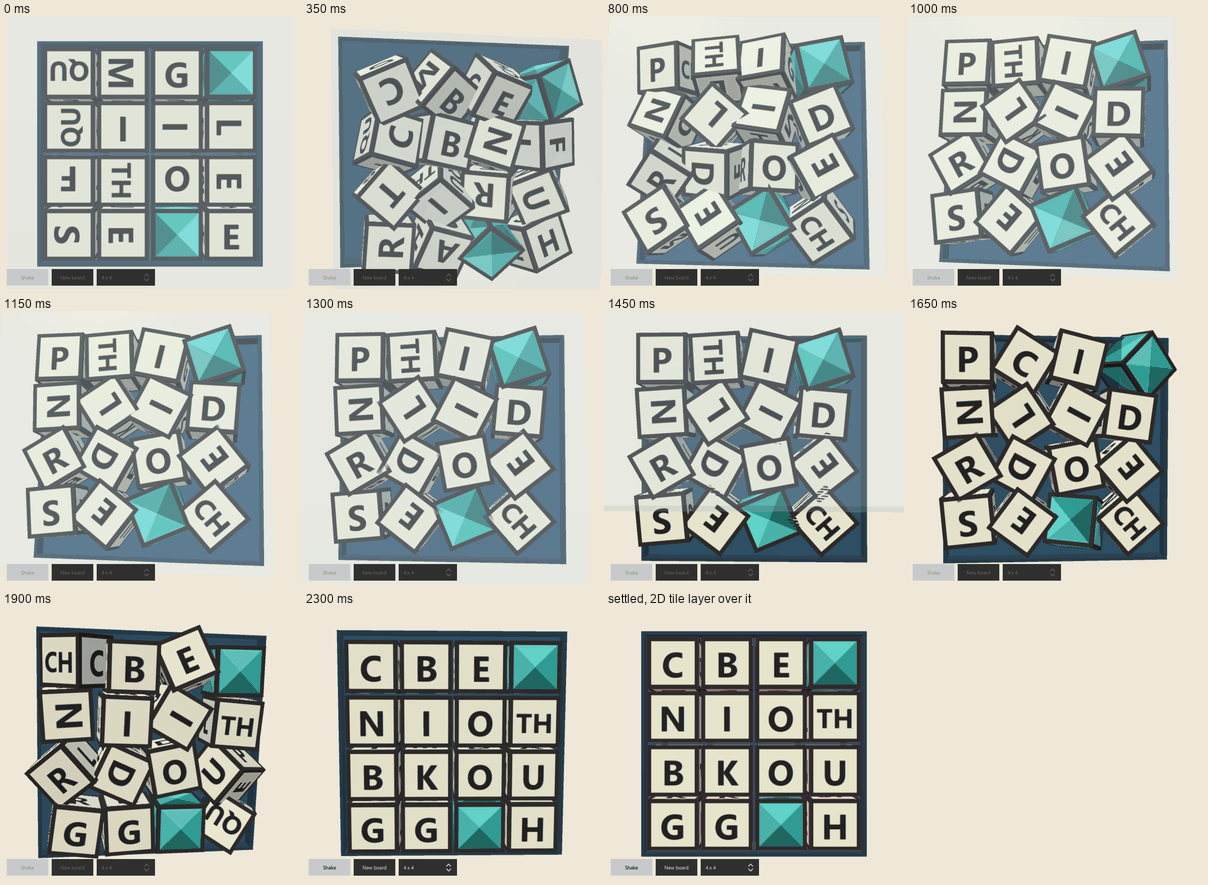
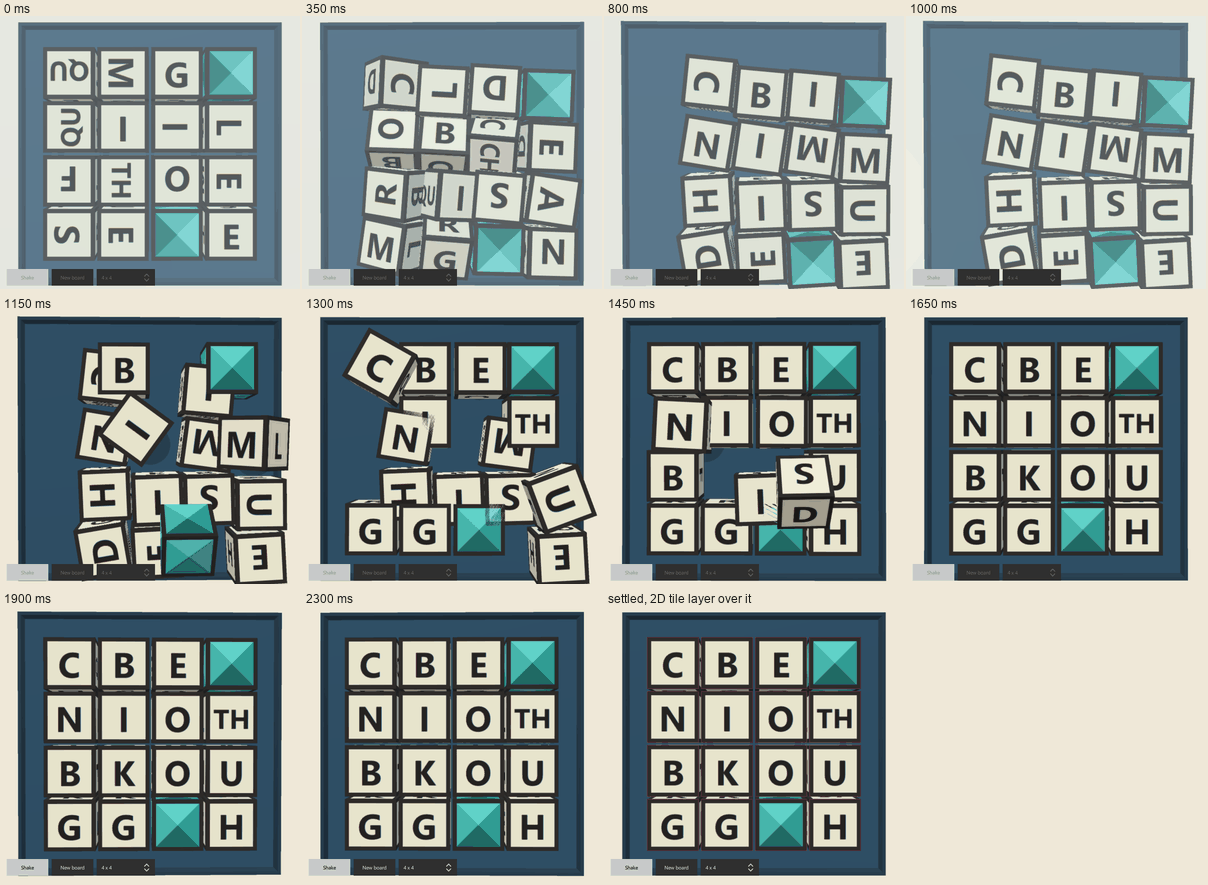
Record the cost of the dice's faces against the newest shake prototype
The measurement is repeated against the branch's tip with the dice in a box
with room (nine processes, a quiet machine, checked as it ran): a frame of a
play costs the render thread about a tenth more, creating the view is
unchanged, and the frame in which a new board is drawn costs two to three and
a half times what it did. New replay checksums, the faces' table and the
filmstrips come from the same tree.

diff --git a/docs/design/shake-prototype.md b/docs/design/shake-prototype.md
@@ -180,18 +180,18 @@ with seed 100:
 
 | Board | Tiles that are their die's face up | Different letters on a die (mean) | Land face up, upright | Faces uppermost in a play (mean, most) |
 | --- | --- | --- | --- | --- |
-| Library dice 3x3 | 9 of 9 | 6.00 | 9 of 9 | 3.89, 5 |
-| Library dice 4x4 | 16 of 16 | 6.00 | 16 of 16 | 3.56, 4 |
-| Library dice 5x5 | 25 of 25 | 6.00 | 25 of 25 | 3.60, 5 |
-| Library dice 6x6 | 36 of 36 | 6.00 | 36 of 36 | 3.69, 6 |
-| Stand-in 3x3, 4x4, 5x5, 6x6 | all | 5.4 to 5.7 (a dead die has one) | all | 3.5 to 3.7, 5 |
+| Library dice 3x3 | 9 of 9 | 6.00 | 9 of 9 | 5.00, 6 |
+| Library dice 4x4 | 16 of 16 | 6.00 | 16 of 16 | 4.50, 6 |
+| Library dice 5x5 | 25 of 25 | 6.00 | 25 of 25 | 4.60, 6 |
+| Library dice 6x6 | 36 of 36 | 6.00 | 36 of 36 | 4.97, 6 |
+| Stand-in 3x3, 4x4, 5x5, 6x6 | all | 5.4 to 5.7 (a dead die has one) | all | 4.6 to 4.9, 6 |
 
 Under reduced motion nothing tumbles (one face, 1.00) and every die lands as
 asked. The staged script shows a die about two faces (the one it lay on and the
 one it lands on, and what the turn passes between). The same checks, on six
-boards (3x3 and 4x4, three seeds each), are the ctest case `the shake script lands each die on the face the roll
-says and tumbles the others`; it fails if the up face is ignored, and if the
-tumble is switched off.
+boards (3x3 and 4x4, three seeds each), are the ctest case "the shake script
+lands each die on the face the roll says and tumbles the others"; it fails if
+the up face is ignored, and if the tumble is switched off.
 
 **What it does not do.** The opposite faces of a die are the cube's arrangement,
 not the die's (the library says which six letters a die has and nothing about
@@ -313,16 +313,16 @@ different seed a different one, and reduced motion its own:
 
 | Script, board (seed 7) | Seed 100, then again | Seed 101 | Reduced, seed 100, then again |
 | --- | --- | --- | --- |
-| Weighted, library dice 3x3 | `5fd8c3e1`, `5fd8c3e1` | `12fd47c0` | `c710afd9`, `c710afd9` |
-| Weighted, library dice 4x4 | `58701394`, `58701394` | `4e36e488` | `b226c069`, `b226c069` |
-| Weighted, library dice 5x5 | `3a8cdaca`, `3a8cdaca` | `5a2b5351` | `fe1247e5`, `fe1247e5` |
-| Weighted, library dice 6x6 | `c893506e`, `c893506e` | `b340b41a` | `709173dd`, `709173dd` |
-| Weighted, stand-in 3x3 | `1673e020`, `1673e020` | `ab28dc78` | `d92b509d`, `d92b509d` |
-| Weighted, stand-in 4x4 | `599afebd`, `599afebd` | `aae31721` | `683142cd`, `683142cd` |
-| Staged, library dice 3x3 | `f12b979f`, `f12b979f` | `5e950637` | `c710afd9`, `c710afd9` |
-| Staged, library dice 4x4 | `181612b1`, `181612b1` | `804b374c` | `b226c069`, `b226c069` |
-| Staged, stand-in 3x3 | `c6d9fb7b`, `c6d9fb7b` | `f633b21e` | `d92b509d`, `d92b509d` |
-| Staged, stand-in 4x4 | `add084cb`, `add084cb` | `279c1970` | `683142cd`, `683142cd` |
+| Weighted, library dice 3x3 | `38cde292`, `38cde292` | `efd90ab4` | `c710afd9`, `c710afd9` |
+| Weighted, library dice 4x4 | `d3fba177`, `d3fba177` | `f015d079` | `b226c069`, `b226c069` |
+| Weighted, library dice 5x5 | `987c1268`, `987c1268` | `4dd96e54` | `fe1247e5`, `fe1247e5` |
+| Weighted, library dice 6x6 | `b11deba2`, `b11deba2` | `a74de28b` | `709173dd`, `709173dd` |
+| Weighted, stand-in 3x3 | `8aea8`, `8aea8` | `b5fd164b` | `d92b509d`, `d92b509d` |
+| Weighted, stand-in 4x4 | `2af519a0`, `2af519a0` | `ac922da6` | `683142cd`, `683142cd` |
+| Staged, library dice 3x3 | `e5396714`, `e5396714` | `50fbac07` | `c710afd9`, `c710afd9` |
+| Staged, library dice 4x4 | `ed068f95`, `ed068f95` | `6b6fb2aa` | `b226c069`, `b226c069` |
+| Staged, stand-in 3x3 | `53647a7e`, `53647a7e` | `16f63790` | `d92b509d`, `d92b509d` |
+| Staged, stand-in 4x4 | `dc06b383`, `dc06b383` | `668a9f2` | `683142cd`, `683142cd` |
 
 A checksum is of the poses in pixels (for the harness's window, 560 x 900) **and
 now of each die's orientation**, so every earlier checksum is replaced, not only
@@ -413,15 +413,15 @@ Checksums for replay are in [Replay](#replay).
 
 ### The real faces
 
-What six cells to a die cost, against the branch as it was before them (its tip
-`6a1c7cd`, built beside this one with the same compiler and flags, with the same
-`--change` mode patched into its harness so the two measure the same way). Three
-processes of each, one after the other on this desktop, with nothing else
-drawing and no build running, which was checked every second of every run (a run
-in which anything was seen was thrown away and made again: another worktree's
-`ShakePrototype` had been running and had stopped runs by name). The "after" is
-two boards: the stand-in the earlier tables used (two dead jewels, each now a die
-of six jewel cells) and the library's dice.
+What six cells to a die cost, against the branch as it was without them (its tip
+when this was merged, `ac4e881`, built beside this one with the same compiler
+and flags, with the same `--change` mode patched into its harness so the two
+measure the same way). Three processes of each, one after the other on this
+desktop, with nothing else drawing and no build running, which was checked every
+second of every run (a run in which anything was seen was thrown away and made
+again; an earlier series had been broken by another worktree's `ShakePrototype`).
+The "after" is two boards: the stand-in the earlier tables used (two dead jewels,
+each now a die of six jewel cells) and the library's dice.
 
 **The atlas is six times the pixels.**
 
@@ -432,59 +432,62 @@ of six jewel cells) and the library's dice.
 | 5x5 | 640 x 640, 25 cells | 1,920 x 1,280, 150 cells | 1.6 MB, 9.8 MB |
 | 6x6 | 768 x 768, 36 cells | 2,304 x 1,536, 216 cells | 2.4 MB, 14.2 MB |
 
-**The frames of a play do not show it.** Every play but the first of each
+**A frame of a play costs about a tenth more.** Every play but the first of each
 process, 30 plays a process, the stand-in's shake (the render thread's time to
 record and submit a frame, as above; GPU time was not measured):
 
 | | Before | After, stand-in board | After, library dice |
 | --- | --- | --- | --- |
-| Frames | 13,604 | 10,398 | 11,119 |
-| Render thread, median | 0.52 ms | 0.44 ms | 0.55 ms |
-| mean | 0.71 ms | 0.55 ms | 0.74 ms |
-| p95 | 0.93 ms | 0.81 ms | 1.00 ms |
-| p99 | 7.8 ms | 4.0 ms | 8.2 ms |
-| largest | 70.7 ms | 30.2 ms | 16.4 ms |
-| Intervals over 33 ms | 4 | 2 | 2 |
+| Frames | 13,107 | 14,156 | 13,394 |
+| Render thread, median | 0.44 ms | 0.49 ms | 0.47 ms |
+| mean | 0.46 ms | 0.52 ms | 0.55 ms |
+| p95 | 0.67 ms | 0.83 ms | 0.84 ms |
+| p99 | 0.97 ms | 1.12 ms | 1.33 ms |
+| largest | 2.5 ms | 2.4 ms | 59.1 ms |
+| Intervals over 33 ms | 0 | 0 | 4 |
 
-The median is the same to a tenth of a millisecond. The means and the tails
-differ from one process to the next and not from one version to the next: one
-process of each kind (the third before, the third stand-in, the first library
-dice) had a tail of 5 to 10 ms (at p95 for two of them, at p99 for the third)
-that its siblings did not, as if something else on the machine had taken turns
-with it, and the largest intervals of all (80, 55 and 159 ms) were single frames. The display ran at
-10 ms in two of the nine processes and at 16.7 ms in seven (the "two cadences"
-above), so the intervals are not compared. Creating the view is unchanged:
-loading the component 17 ms before and 16 ms after, creating the objects 3.3 and
-3.4 to 4.0 ms, and the first frame after it 232 ms before and 226 and 235 ms
-after (213 to 226 ms of it the render thread's).
+The median is 0.03 to 0.05 ms higher, in every kind of play (by 0.01 to 0.09 ms
+in the mean): what the cube of six sides and an extra turn for each die add to
+the frame. The one large number is one process of the nine, which had a stall (a
+115.8 ms interval and a 59.1 ms frame, with 44 intervals over 20 ms) that its
+two siblings and the other six processes did not; the cause was not found (an
+earlier series of this measurement, against the branch's previous tip, had a
+stall of the same kind in one process of the *before*).
+The display ran at 100 Hz (10 ms) in all but the first process of the before,
+which was a mix of the two cadences (the "two cadences" above), so the intervals
+are not compared. Creating the view is unchanged within its spread: loading the
+component 16, 16 and 17 ms (before, stand-in, library dice), creating the
+objects 3.5, 3.9 and 4.0 ms, and the first frame after it 237, 251 and 240 ms
+(228 to 238 ms of it the render thread's).
 
 **The cost is in the frame in which the board changes.** `--auto --change` shows
 a new board and records the frames after it, six boards of each size in each of
-three processes (18 boards of each size for each kind). That frame draws the new board's faces into the
-atlas. Means: the time from `show()` to the first frame on screen, and what the
-render thread spent on that frame.
+three processes (18 boards of each size for each kind). That frame draws the new
+board's faces into the atlas. Means: the time from `show()` to the first frame on
+screen, and what the render thread spent on that frame.
 
 | Board | Before | After, stand-in board | After, library dice |
 | --- | --- | --- | --- |
-| 3x3 | 17.8 ms, 6.1 ms | 31.1 ms, 18.0 ms | 22.7 ms, 11.1 ms |
-| 4x4 | 11.9 ms, 5.1 ms | 29.8 ms, 16.5 ms | 19.3 ms, 8.1 ms |
-| 5x5 | 19.4 ms, 8.7 ms | 47.3 ms, 29.3 ms | 32.9 ms, 16.1 ms |
-| 6x6 | 26.7 ms, 13.9 ms | 77.5 ms, 50.6 ms | 57.3 ms, 32.1 ms |
+| 3x3 | 11.7 ms, 5.7 ms | 28.1 ms, 16.6 ms | 21.9 ms, 11.2 ms |
+| 4x4 | 11.8 ms, 5.0 ms | 26.2 ms, 14.5 ms | 19.0 ms, 8.1 ms |
+| 5x5 | 17.1 ms, 8.7 ms | 46.6 ms, 29.3 ms | 33.5 ms, 16.5 ms |
+| 6x6 | 26.1 ms, 13.5 ms | 75.5 ms, 49.5 ms | 57.7 ms, 32.3 ms |
 
-The frames after the first are the same as before (the render thread's largest
-of the next four frames was 0 to 2.5 ms in all of them). So **a new board costs
-two to three and a half times what it did**, and the frame in which it is drawn
-is over the [33 ms budget](performance.md#budgets) at 6x6 and at 5x5 with the
-stand-in's jewels, at the budget at 5x5 with the library's dice, and under it at
-3x3 and 4x4 (the stand-in's means there, 31 and 30 ms, are close to it, and one
-4x4 board took 62 ms).
-`play()` sets the board, so the first frame of a shake carries it. What makes
-the stand-in dearer than the library's board is the jewel: each dead die is six
-`Shape`s of four facets, about 0.7 ms a cell by the difference at 4x4 (two dead
-dice, 12 cells, 8 ms more; the boards' letters differ too). Two things would take it back, and
-neither is done: set the board (so that the atlas is drawn) a frame or more
-before the shake starts, behind the layout stage that is the application's; and
-draw the jewel once and share it.
+The frames after the first are nearly the same as before (the largest
+render-thread time of the next four was under 2 ms everywhere but at 6x6, where
+it was 1.5 ms before, and 9.1 ms with the stand-in and 4.5 ms with the library's
+dice). So **a new board costs two to
+three and a half times what it did**, and the frame in which it is drawn is over
+the [33 ms budget](performance.md#budgets) at 6x6 and at 5x5 with the stand-in's
+jewels, at the budget at 5x5 with the library's dice, and under it at 3x3 and
+4x4 (the stand-in's means there, 28 and 26 ms, are close to it). `play()` sets
+the board, so the first frame of a shake carries it. What makes the stand-in
+dearer than the library's board is the jewel: each dead die is six `Shape`s of
+four facets, about 0.6 ms a cell by the difference at 4x4 (two dead dice, 12
+cells, 6.4 ms more; the boards' letters differ too). Two things would take it
+back, and neither is done: set the board (so that the atlas is drawn) a frame or
+more before the shake starts, behind the layout stage that is the application's;
+and draw the jewel once and share it.
 
 **Not measured:** the GPU's time for a frame with the bigger atlas, the atlas's
 memory and upload on a device, and anything on an iPad, a tablet or a phone.
@@ -528,9 +531,10 @@ different letters, and a shake mixes the dice and the faces. Hence
 
 The library's roll of the 4x4 dice with seed 7 (`M D O O / C A R T / R N E U /
 L D R P`). At 0 ms the dice sit in the box on other faces than the ones they
-will land on, and the shake shows side faces (350 to 1000 ms); they land on the
-rolled face, the letter upright. The same with the stand-in board, whose two
-dead dice are six jewels each (and whose decoy faces include `QU` and `TH`):
+will land on, and the shake shows side faces (350 to 1000 ms); then each die
+hops home, turning over in the air (1150 to 1450 ms), and lands on the rolled
+face, the letter upright. The same with the stand-in board, whose two dead dice
+are six jewels each (and whose decoy faces include `QU` and `TH`):
 
 ![The same with the stand-in board](shake-prototype-filmstrip-jewels.png)
 
@@ -555,8 +559,9 @@ is silent, and the feel is judged without it.
   painted on, which looks wrong from the side; and nothing is heard.
 - **The faces.** Read from the stills by whoever built it: letters upright and
   not mirrored on every top face at rest; side faces read as letters during the
-  tumble; at 6x6 the last dice are still turning at 2.3 s. How the turning reads
-  at 60 Hz, and to a child, is unjudged.
+  tumble and the hop; a die turns over about a horizontal axis in a quarter turn
+  at a time, so the turning is in steps. How it reads at 60 Hz, and to a child,
+  is unjudged.
 
 Staged, leaning 24 degrees, for comparison:
 
